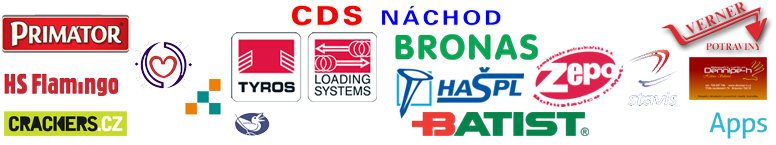
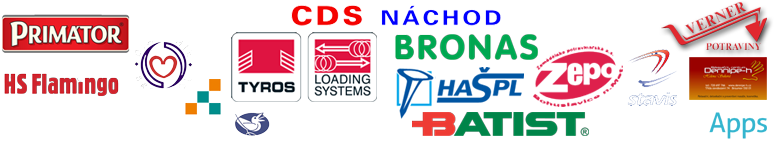
Change sponzori page to partneri page, Move crackers to media partner

Changed region(s): [[0.0, 0.7448, 0.1856, 0.9379]]

diff --git a/public/javascripts/application.js b/public/javascripts/application.js
@@ -41,7 +41,7 @@ $(document).ready(function() {
   $("#herci_link").attr('href',"#herci");
   $("#z_nataceni_link").attr('href',"#z_nataceni");
   $("#tvurci_link").attr('href',"#tvurci");
-  $("#sponzori_link").attr('href',"#sponzori");
+  $("#partneri_link").attr('href',"#partneri");
   $("#spoty_link").attr('href',"#spoty");
   $("#aktuality_link").attr('href',"#aktuality");
 
@@ -101,8 +101,8 @@ function changePageTitle(page_name){
     case 'tvurci':
       document.title = "Bastardi - Tvůrci českého filmu";
       break;
-    case 'sponzori':
-      document.title = "Bastardi - Naši sponzoři";
+    case 'partneri':
+      document.title = "Bastardi - Naši partneři";
       break;
     case 'spoty':
       document.title = "Bastardi - Krátká videa s herci";

diff --git a/application.rb b/application.rb
@@ -47,10 +47,10 @@ get '/herci.html' do
   haml :herci, :layout => @layout
 end
 
-get '/sponzori.html' do
-  @title = "Bastardi - Naši sponzoři"
-  @description = "Děkujeme všem sponzorům. Mezi nimi patrí STEF recycling, Batist, Bronas, CDS, Tyros Loading Systems, Hašpl, Mary Kay, Nail tek, Kadeřnictví Butik U bílé vrány, Primátor, Potraviny Verner, Stavis a další."
-  haml :sponzori, :layout => @layout
+get '/partneri.html' do
+  @title = "Bastardi - Naši partneři"
+  @description = "Děkujeme všem partnerům. Mezi nimi patří STEF recycling, Batist, Bronas, CDS, Tyros Loading Systems, Hašpl, Mary Kay, Nail tek, Kadeřnictví Butik U bílé vrány, Primátor, Potraviny Verner, Stavis a další."
+  haml :partneri, :layout => @layout
 end
 
 get '/spoty.html' do
